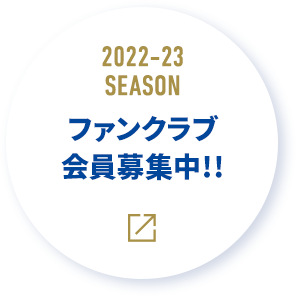
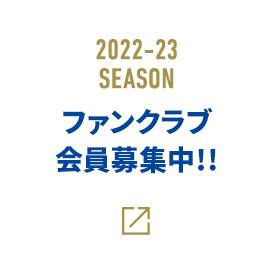
edit img,css

diff --git a/files/user/lp/boosterclub/css/styles.css b/files/user/lp/boosterclub/css/styles.css
@@ -441,7 +441,7 @@
 .btn-season a{
 	position: relative;
 	display: inline-block;
-	line-height: 1;
+	line-height: 0;
 	border-radius: 50%;
 	transition: all 0.3s;
 	-webkit-box-shadow: 4px 4px 8px 0px rgba(16,50,121,0.2);
@@ -455,18 +455,16 @@
 	background: rgba(255, 255, 255, 0.43);
 	position: absolute;
 	top: 50%;
-	left: 48%;
+	left: 50%;
 	border-radius: 50%;
-	transform: translate(-50%, -52%);
+	transform: translate(-50%, -50%);
 	z-index: 1;
 	transition: all 0.2s ease-in-out;
 }
 .btn-season a img{
 	z-index: 2;
 	position: relative;
-}
-.btn-season img{
-	width: 178px;
+	width: 162px;
 }
 .btn-season a:hover::before{
 	background: #fff;
@@ -480,7 +478,7 @@
 		width: 144px;
 		height: 144px;
 	}
-	.btn-season img{
+	.btn-season a img{
 		width: 136px;
 		height: auto;
 	}
@@ -562,6 +560,9 @@
 	transition: all 2s ease;
 	color: transparent;
 	-webkit-text-stroke: #fff 1px;
+}
+.box-join__club__btn img{
+	width: 264px;
 }
 @media all and (-ms-high-contrast: none), (-ms-high-contrast: active) {
 	/* IE10+ CSS styles go here */
@@ -1994,6 +1995,7 @@
 }
 .box-member__head-label__item img{
 	width: 73px;
+	height: 25px;
 }
 .box-member__head-label__item:last-child{
 	margin-right: 0;
@@ -2010,6 +2012,7 @@
 	color: #222;
 	margin-top: 23px;
 }
+
 .box-member-tbl-base{
 	width: 94%;
 	margin: 0 0 0 6%;
@@ -2093,9 +2096,11 @@
 	}
 	.box-member__head-label__item:first-child img{
 		width: 67px;
+		height: 23px;
 	}
 	.box-member__head-label__item img{
-		width: 71px;
+		width: 67px;
+		height: 23px;
 	}
 	.box-member__body__title{
 		font-size: 20px;
